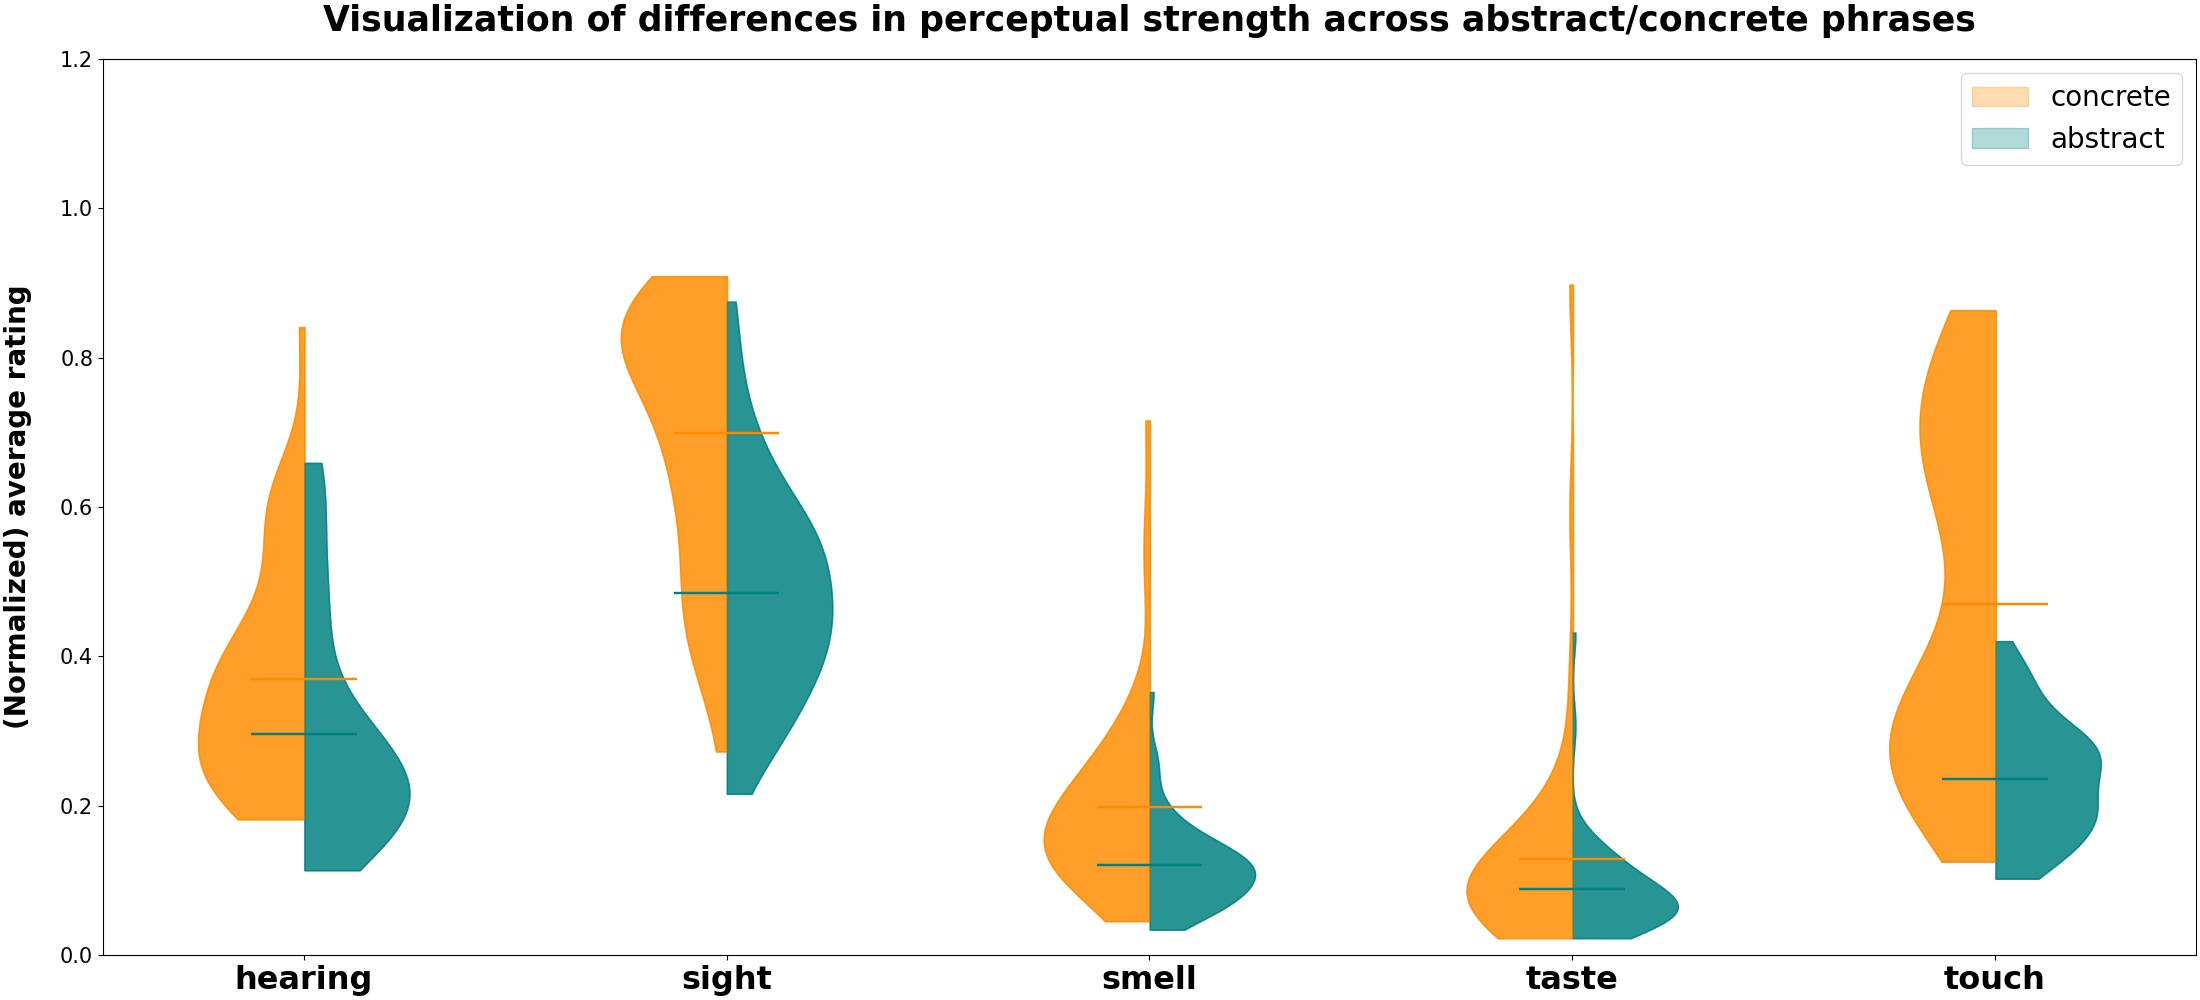
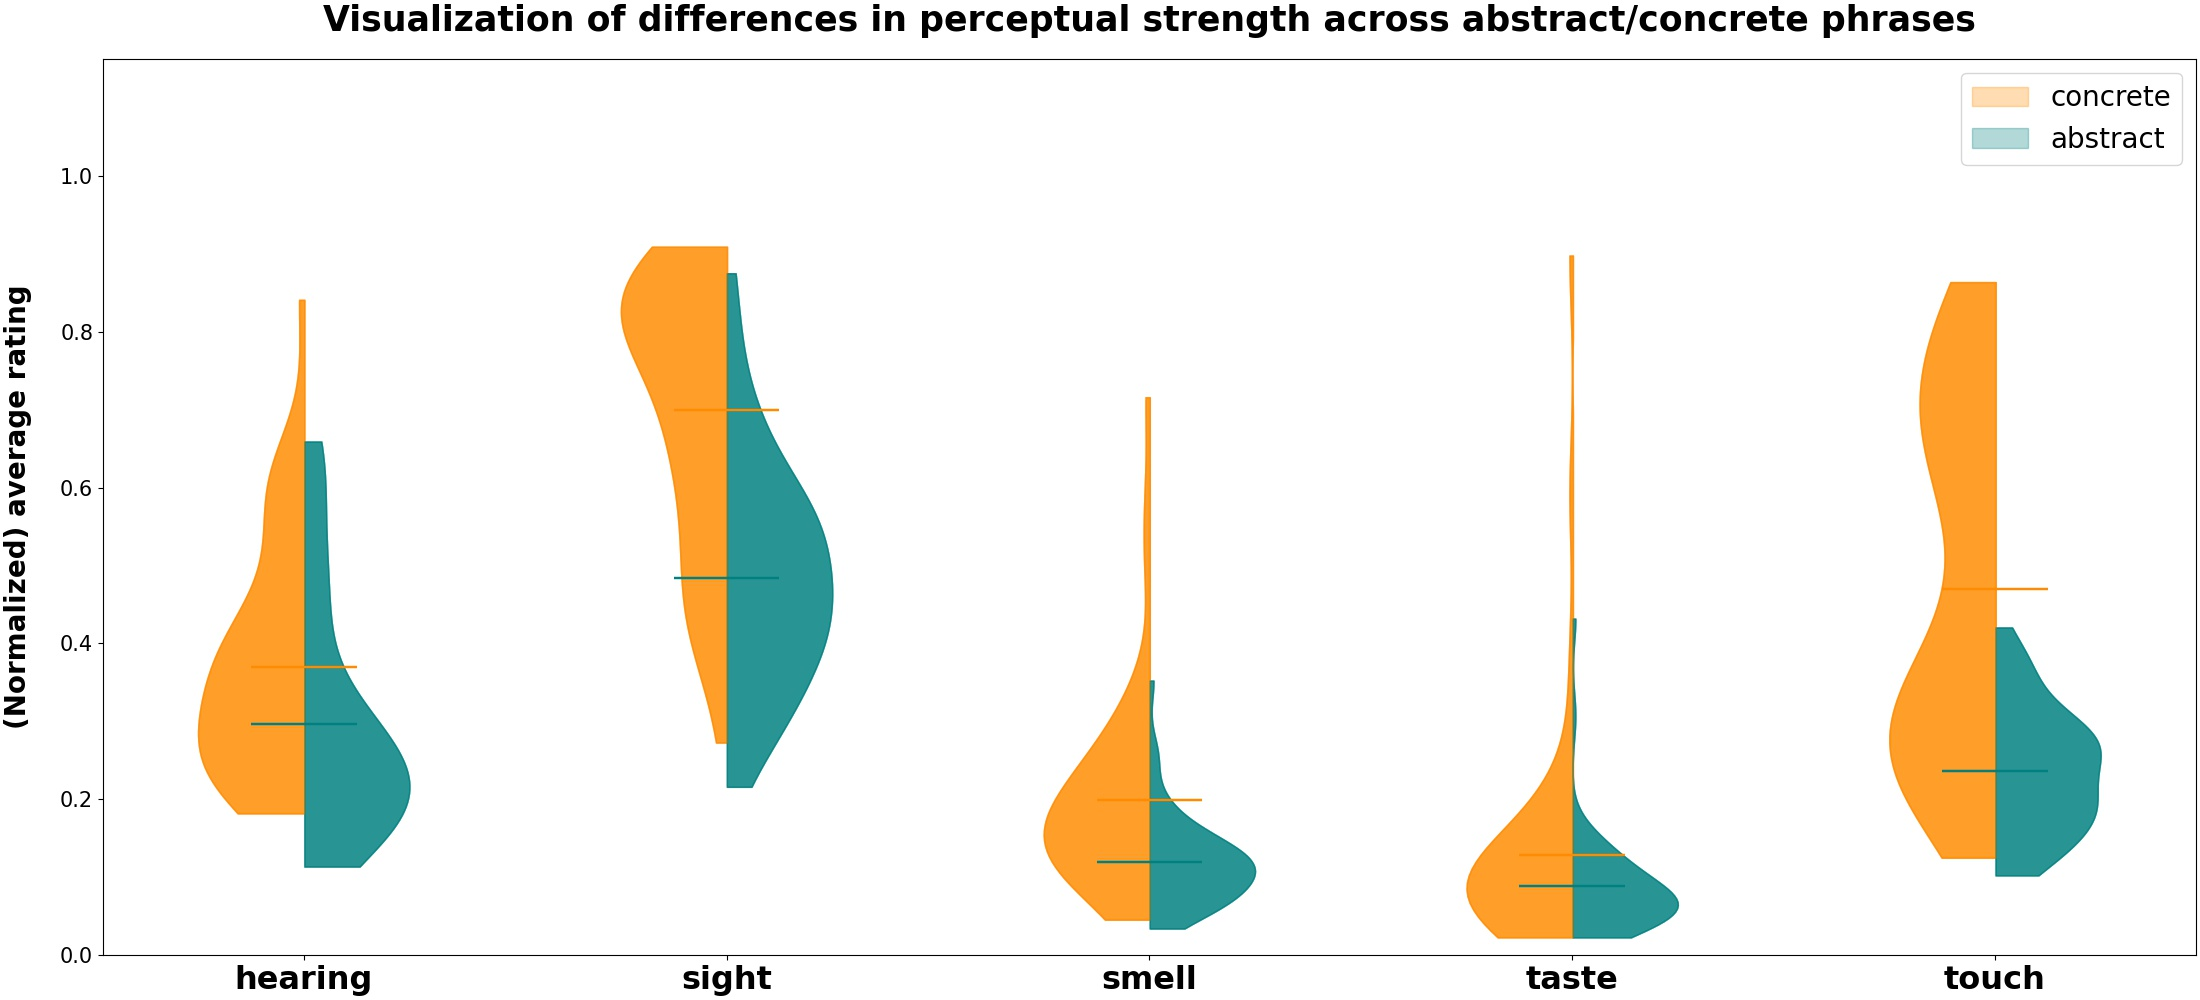
plots

diff --git a/04_validate_list_phrases.py b/04_validate_list_phrases.py
@@ -155,7 +155,7 @@ for b in v2['bodies']:
     b.get_paths()[0].vertices[:, 0] = numpy.clip(b.get_paths()[0].vertices[:, 0], m, numpy.inf)
     b.set_color('teal')
 v2['cmeans'].set_color('teal')
-ax.set_ylim(bottom=0., top=1.2)
+ax.set_ylim(bottom=0., top=1.15)
 ax.legend(
           [v1['bodies'][0], v2['bodies'][0]],
           ['concrete', 'abstract'],
@@ -223,7 +223,7 @@ for sense, sense_averages in human_data.items():
         b.get_paths()[0].vertices[:, 0] = numpy.clip(b.get_paths()[0].vertices[:, 0], m, numpy.inf)
         b.set_color('teal')
     v2['cmeans'].set_color('teal')
-    ax.set_ylim(bottom=0., top=1.2)
+    ax.set_ylim(bottom=0., top=1.15)
     ax.legend(
               [v1['bodies'][0], v2['bodies'][0]],
               ['concrete', 'abstract'],
@@ -291,7 +291,7 @@ for sense, sense_averages in human_data.items():
         b.get_paths()[0].vertices[:, 0] = numpy.clip(b.get_paths()[0].vertices[:, 0], m, numpy.inf)
         b.set_color('teal')
     v2['cmeans'].set_color('teal')
-    ax.set_ylim(bottom=0., top=1.2)
+    ax.set_ylim(bottom=0., top=1.15)
     ax.legend(
               [v1['bodies'][0], v2['bodies'][0]],
               ['concrete', 'abstract'],
